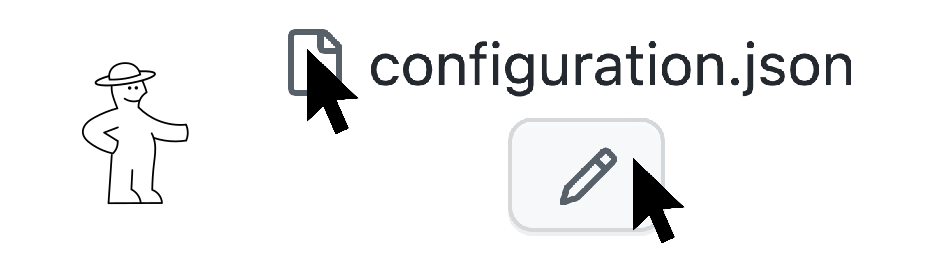
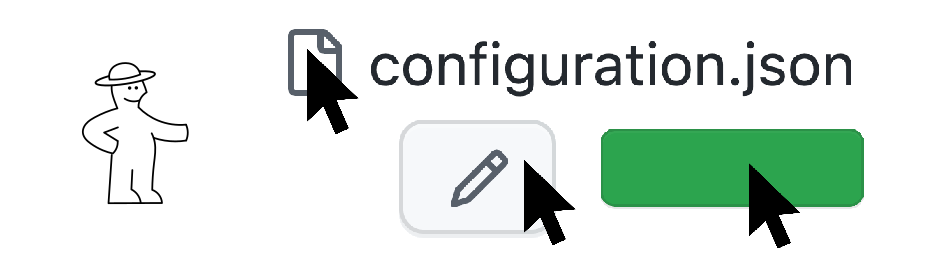
Add new page button

Changed region(s): [[0.4338, 0.4341, 0.9295, 0.9612], [0.4028, 0.4961, 0.4338, 0.8682]]

diff --git a/html/style.css b/html/style.css
@@ -68,6 +68,29 @@ aside ul li {
     margin-bottom: 0.4em;
 }
 
+#aside_bottom_section {
+    text-align: center;
+}
+.a_button {
+    width: 2em;
+    height: 2em;
+    margin: 0px;
+    padding: 3px;
+    border: 1px solid black;
+    border-radius: 4px;
+    background: white;
+    display: inline-block;
+    margin: 0.5em;
+}
+.a_button:hover {
+    background-color: #f6f6f6;
+}
+.a_button img {
+    margin: 10%;
+    width: 80%;
+    height: 80%;
+}
+
 /*
     Content
 */
@@ -88,27 +111,10 @@ article {
     max-width: 100%;
     flex-grow: 1;
     padding: 1em;
-    position: relative;
 }
 .instructions img {
     width: 45em;
     max-width: 100%;
-}
-#edit {
-    width: 35px;
-    height: 35px;
-    margin: 0px;
-    padding: 3px;
-    position: absolute;
-    border: 1px solid black;
-    border-radius: 4px;
-    background-color: rgb(234, 234, 234);
-    top: 3px;
-    right: 3px;
-}
-#edit img {
-    width: 100%;
-    height: 100%;
 }
 
 /*
@@ -149,7 +155,7 @@ footer {
         font-size: 1.2em;
     }
     aside ul {
-        column-count: 3;
+        column-count: 2;
         column-gap: 20px;
         width: 100%;
         font-size: 1.2em;

diff --git a/html/template.html b/html/template.html
@@ -17,9 +17,12 @@
             <ul>
                 {{aside}}
             </ul>
+            <div id="aside_bottom_section">
+                <a class="a_button" href="https://github.com/{{github_username}}/{{github_repository}}/edit/main/pages/{{source_file_path}}"><img src="edit.png"/></a>
+                <a class="a_button" href="https://github.com/{{github_username}}/{{github_repository}}/new/main/pages?filename=new_page_name.md"><img src="new.png"/></a>
+            </div>
         </aside><!--
         --><article>
-            <a id="edit" href="https://github.com/{{github_username}}/{{github_repository}}/edit/main/pages/{{source_file_path}}"><img src="edit.png"/></a>
             <h1>{{title}}</h1>
             {{content}}
         </article>

diff --git a/build.py b/build.py
@@ -8,7 +8,7 @@ TEMPLATE_PAGE = 'html/template.html'
 CONFIG_FILE = 'configuration.json'
 LINK_TEMPLATE = '<li><a href="{{url}}">{{title}}</a></li>'
 COPY_FILES = {
-    'html' : ['style.css', 'logo.png', 'edit.png'],
+    'html' : ['style.css', 'logo.png', 'edit.png', 'new.png'],
 }
 SOURCE_DIR = 'pages'
 TARGET_DIR = 'html_pages'

diff --git a/pages/edit.md b/pages/edit.md
@@ -1,0 +1,10 @@
+---
+title: Edit a page
+aside_index: 2
+---
+
+<div class="instructions" markdown="1">
+
+
+
+</div>
